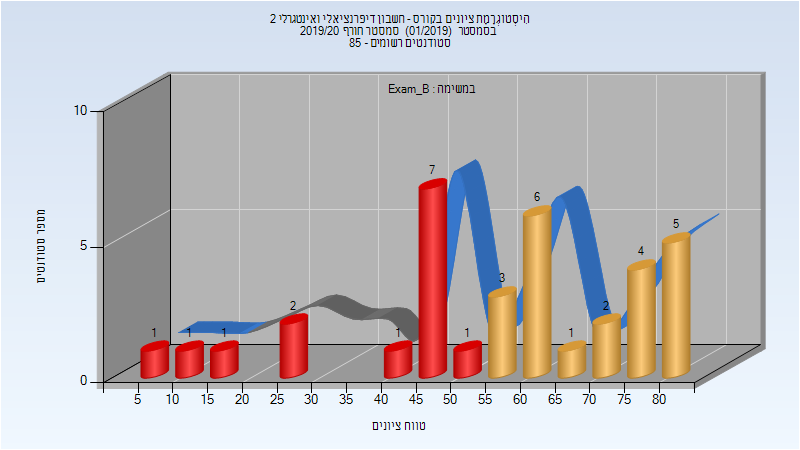
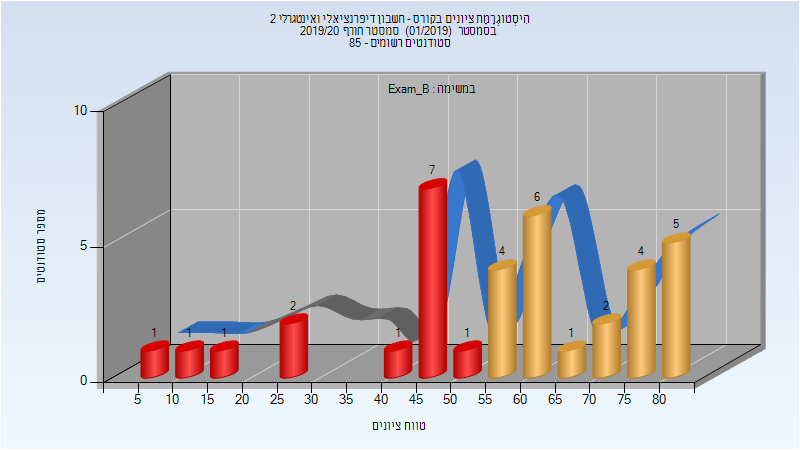
Deploy michael-maltsev/technion-histograms to github.com/michael-maltsev/technion-histograms.git:gh-pages

Changed region(s): [[0.5938, 0.56, 0.6562, 0.6533], [0.6875, 0.4044, 0.7188, 0.56]]

diff --git a/104004/index.html b/104004/index.html
@@ -1612,13 +1612,13 @@
 </thead>
 <tbody>
 <tr>
-<td>35</td>
-<td>21/14</td>
-<td>60</td>
+<td>36</td>
+<td>22/14</td>
+<td>61</td>
 <td>8</td>
 <td>82</td>
-<td>56.543</td>
-<td>58</td>
+<td>56.583</td>
+<td>59</td>
 </tr>
 </tbody>
 </table>
@@ -1638,13 +1638,13 @@
 </thead>
 <tbody>
 <tr>
-<td>35</td>
-<td>22/13</td>
-<td>63</td>
+<td>36</td>
+<td>23/13</td>
+<td>64</td>
 <td>8</td>
 <td>83</td>
-<td>57.2</td>
-<td>59</td>
+<td>57.222</td>
+<td>59.5</td>
 </tr>
 </tbody>
 </table>
@@ -1665,11 +1665,11 @@
 <tbody>
 <tr>
 <td>74</td>
-<td>58/16</td>
-<td>78</td>
+<td>59/15</td>
+<td>80</td>
 <td>8</td>
 <td>100</td>
-<td>66.27</td>
+<td>66.419</td>
 <td>69</td>
 </tr>
 </tbody>

diff --git a/104004/README.md b/104004/README.md
@@ -507,7 +507,7 @@
 
 | סטודנטים | עברו/נכשלו | אחוז עוברים | ציון מינימלי | ציון מקסימלי | ממוצע | חציון |
 | ---- | ---- | ---- | ---- | ---- | ---- | ---- |
-| 35 | 21/14 | 60 | 8 | 82 | 56.543 | 58 |
+| 36 | 22/14 | 61 | 8 | 82 | 56.583 | 59 |
 
 ### סופי מועד ב'
 
@@ -515,7 +515,7 @@
 
 | סטודנטים | עברו/נכשלו | אחוז עוברים | ציון מינימלי | ציון מקסימלי | ממוצע | חציון |
 | ---- | ---- | ---- | ---- | ---- | ---- | ---- |
-| 35 | 22/13 | 63 | 8 | 83 | 57.2 | 59 |
+| 36 | 23/13 | 64 | 8 | 83 | 57.222 | 59.5 |
 
 ### סופי
 
@@ -523,7 +523,7 @@
 
 | סטודנטים | עברו/נכשלו | אחוז עוברים | ציון מינימלי | ציון מקסימלי | ממוצע | חציון |
 | ---- | ---- | ---- | ---- | ---- | ---- | ---- |
-| 74 | 58/16 | 78 | 8 | 100 | 66.27 | 69 |
+| 74 | 59/15 | 80 | 8 | 100 | 66.419 | 69 |
 
 ## אביב 2020
 
